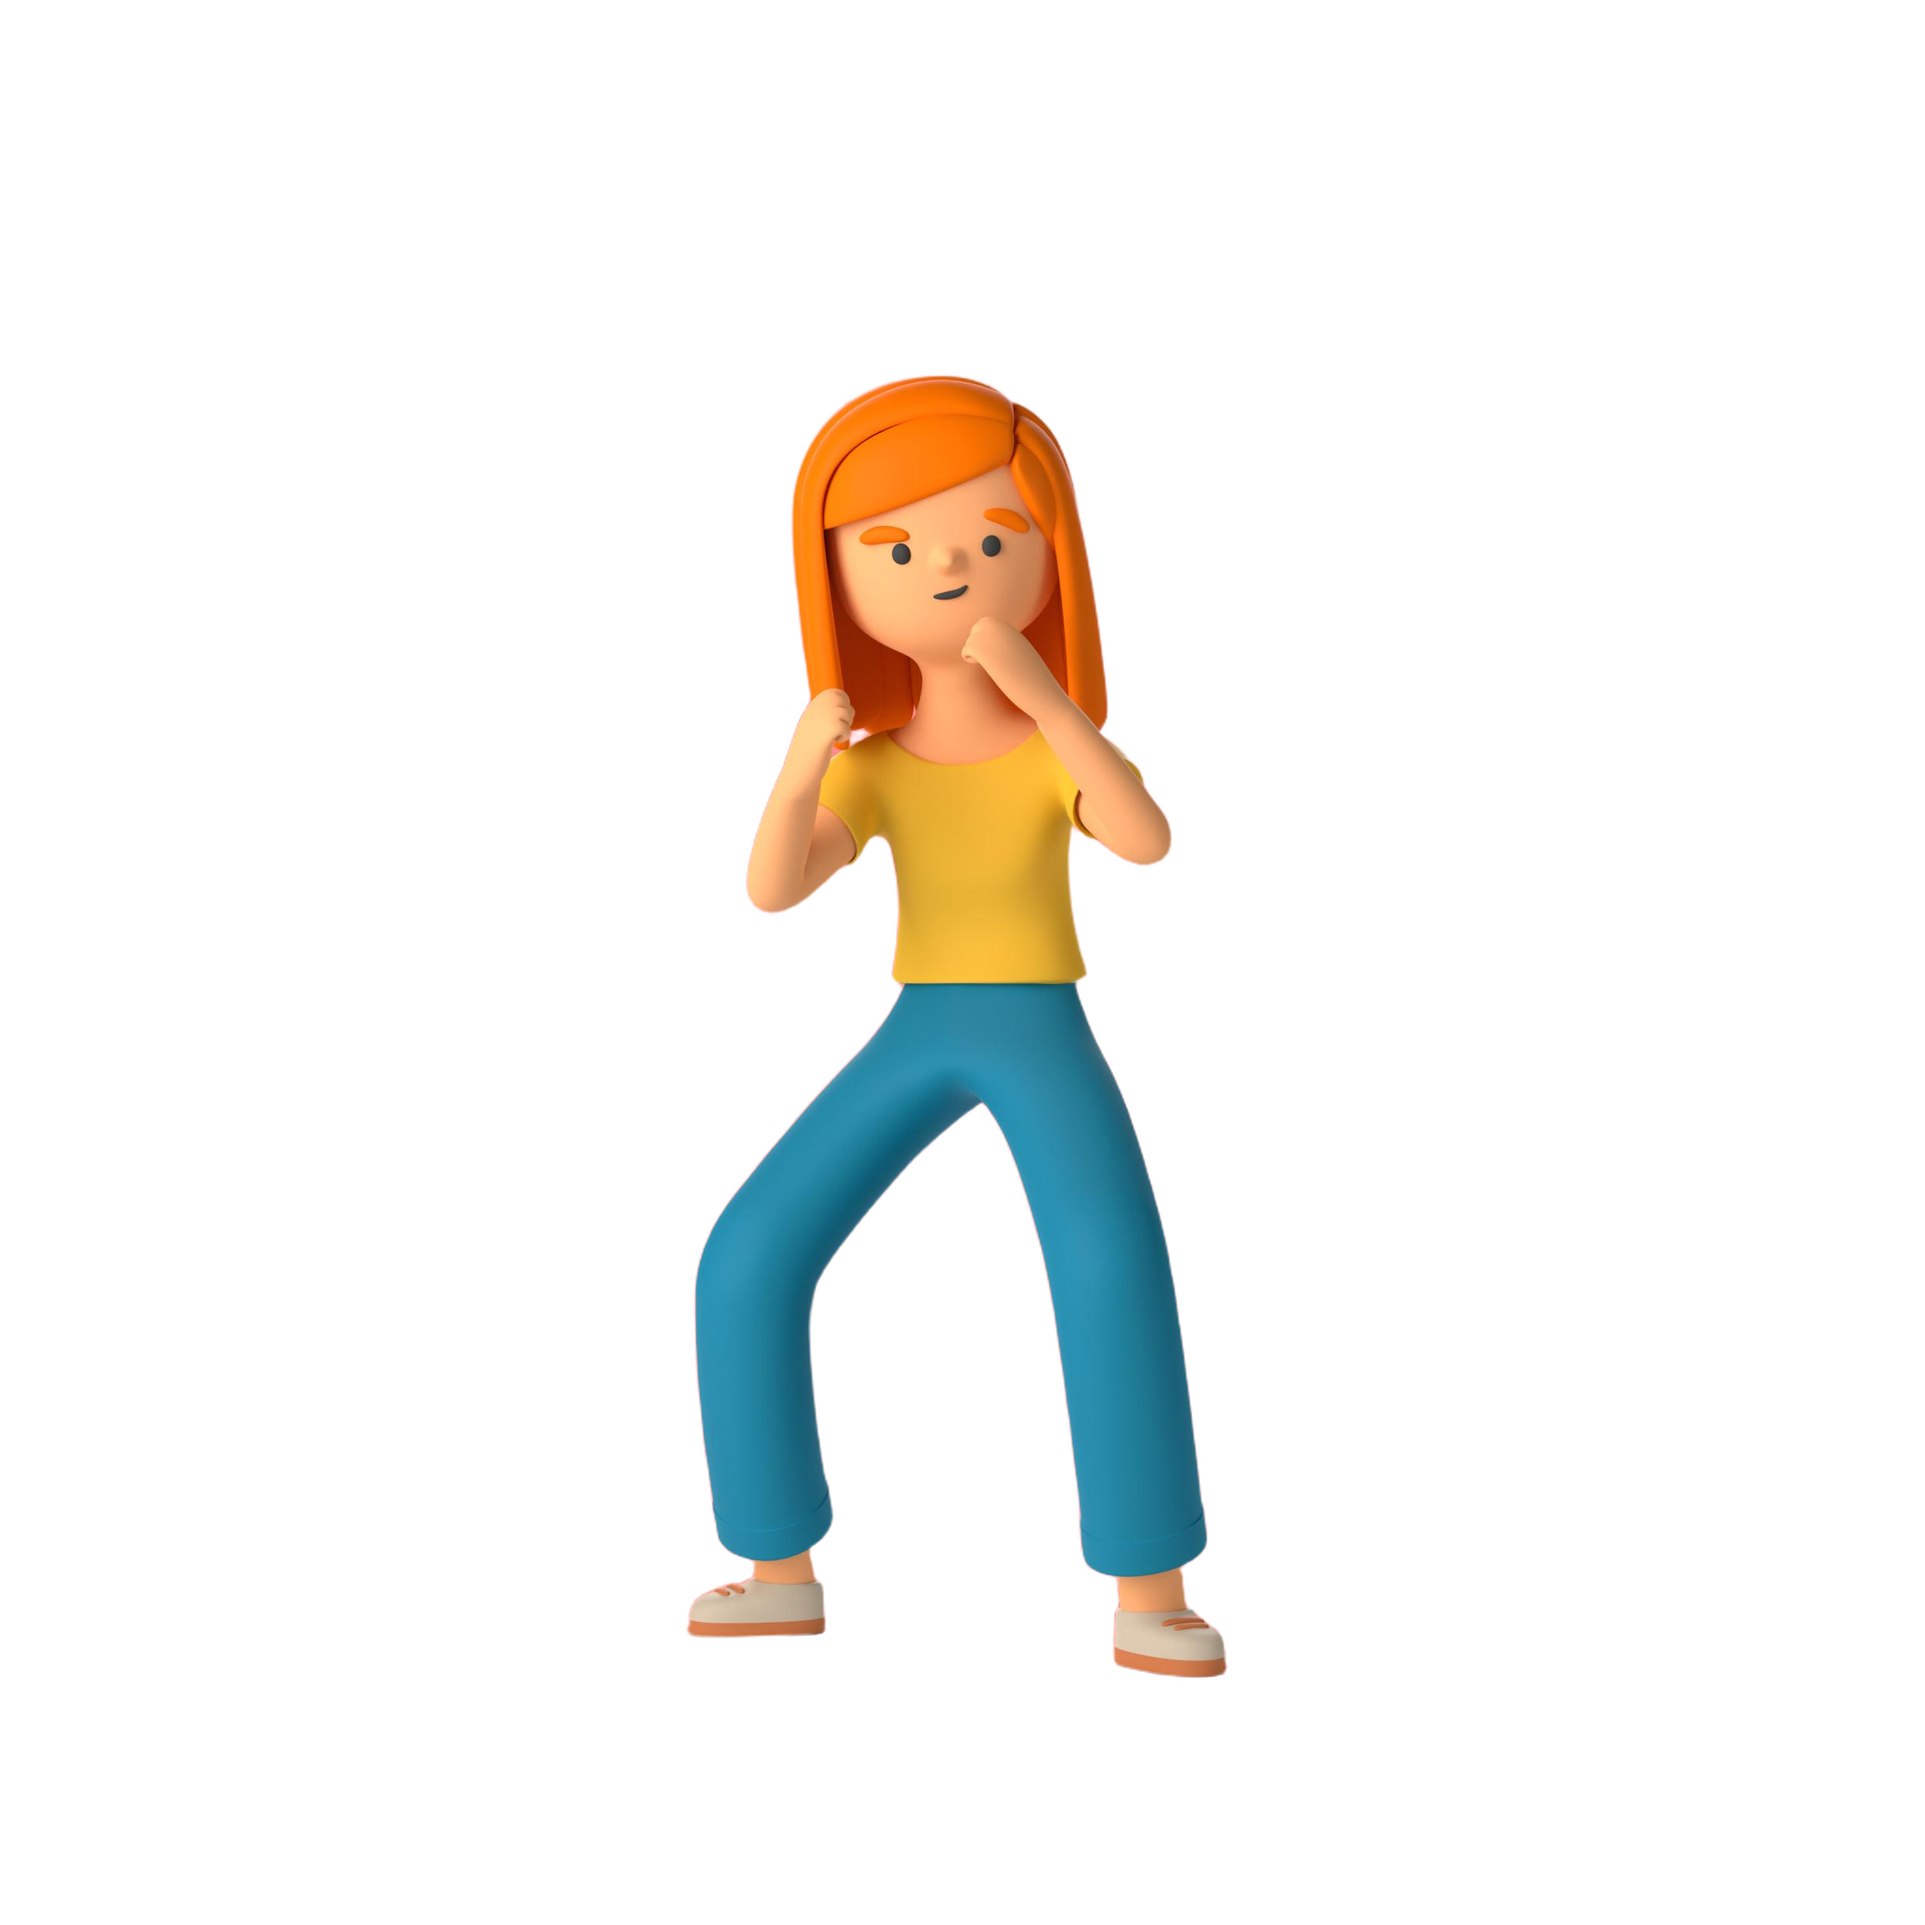
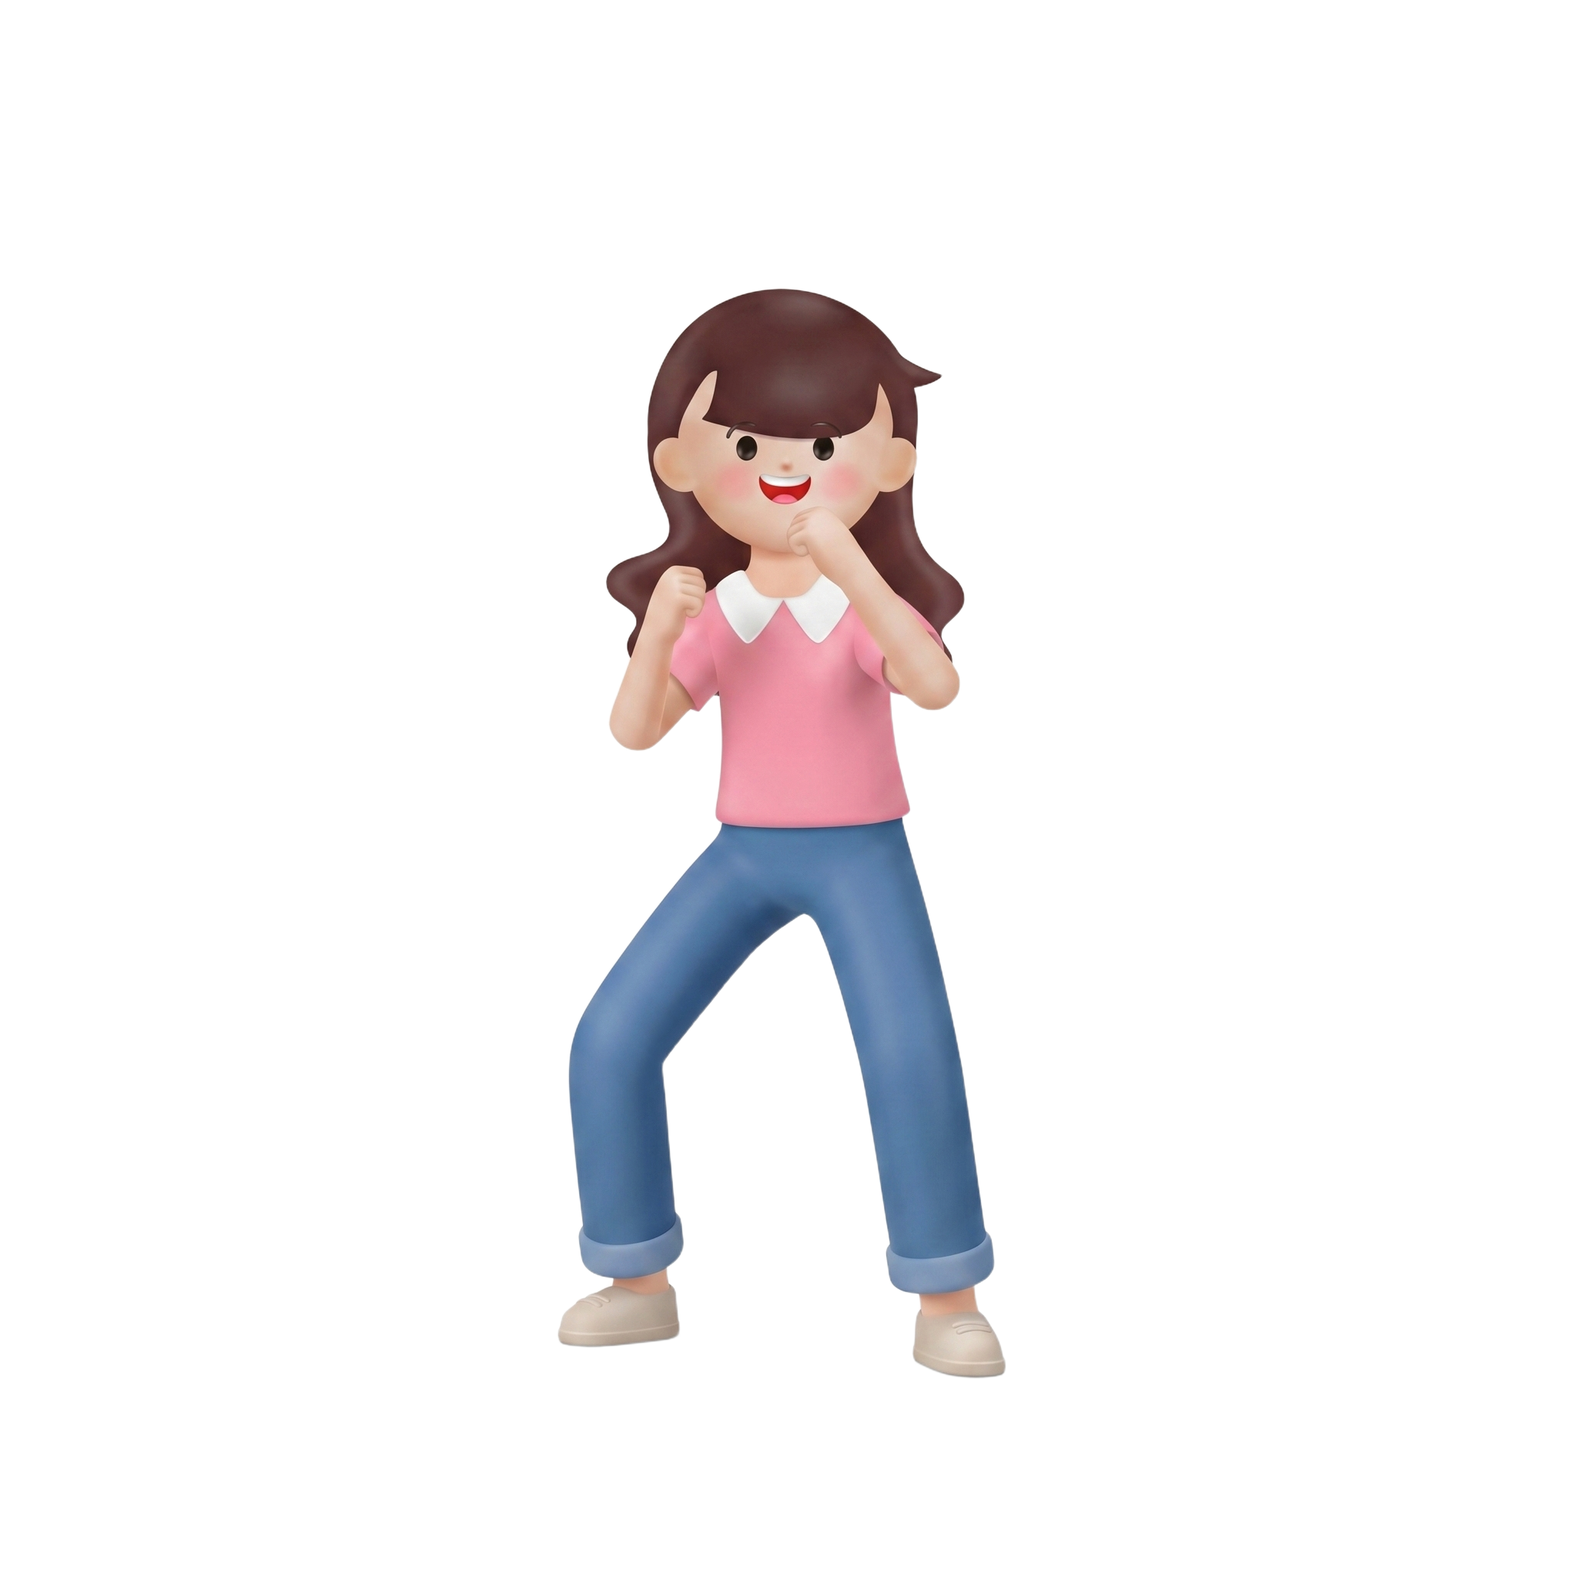
Add chi_lock illustration image to assets

Changed region(s): [[0.3438, 0.1562, 0.6562, 0.875]]

diff --git a/HR_api/Controllers/PolicyController.cs b/HR_api/Controllers/PolicyController.cs
@@ -196,6 +196,36 @@ public class PolicyController : ControllerBase
     }
 
     // ─────────────────────────────────────────────────────────────────────────
+    // POST /apiHR/Policy/delete?id=  — chỉ xóa khi IS_ACTIVE = 0
+    // ─────────────────────────────────────────────────────────────────────────
+    [HttpPost("delete")]
+    public async Task<IActionResult> Delete(int id)
+    {
+        try
+        {
+            const string checkSql = "SELECT IS_ACTIVE FROM HRMS.HR_COMPANY_POLICY WHERE ID = :ID";
+            var check = await _oracleService.ExecuteQueryAsync(checkSql,
+                r => Convert.ToInt32(r["IS_ACTIVE"]),
+                new OracleParameter("ID", id));
+
+            if (check.Count == 0)
+                return Ok(new { success = false, message = "Không tìm thấy quy định" });
+
+            if (check[0] != 0)
+                return Ok(new { success = false, message = "Chỉ được xóa quy định đang ẩn" });
+
+            const string deleteSql = "DELETE FROM HRMS.HR_COMPANY_POLICY WHERE ID = :ID";
+            await _oracleService.ExecuteNonQueryAsync(deleteSql, new OracleParameter("ID", id));
+
+            return Ok(new { success = true, message = "Đã xóa quy định" });
+        }
+        catch (Exception ex)
+        {
+            return Ok(new { success = false, message = ex.Message });
+        }
+    }
+
+    // ─────────────────────────────────────────────────────────────────────────
     private static CompanyPolicyModel Map(Oracle.ManagedDataAccess.Client.OracleDataReader r) => new()
     {
         ID             = Convert.ToInt32(r["ID"]),

diff --git a/HR_web/Helpers/NoDataHelper.cs b/HR_web/Helpers/NoDataHelper.cs
@@ -1,0 +1,32 @@
+using Microsoft.AspNetCore.Html;
+using Microsoft.AspNetCore.Mvc.Rendering;
+
+namespace HR_web.Helpers;
+
+public static class NoDataHelper
+{
+    private static readonly string[] NoDataImages = ["Chi_nodata.png", "A_nodata.png"];
+
+    public static IHtmlContent RenderNoData(this IHtmlHelper html, string? subtitle = null)
+    {
+        var urlHelper = new Microsoft.AspNetCore.Mvc.Routing.UrlHelper(html.ViewContext);
+        var img = NoDataImages[Random.Shared.Next(NoDataImages.Length)];
+        var imgSrc = urlHelper.Content($"~/assets/img/illustrations/{img}");
+
+        var subtitleHtml = subtitle is not null
+            ? $"<p class='text-muted mt-1 mb-0' style='font-size:0.95rem;'>{subtitle}</p>"
+            : string.Empty;
+
+        var html_content = $@"
+<div class='text-center py-5'>
+    <img src='{imgSrc}' alt='Không có dữ liệu' style='max-width:220px;margin-bottom:1rem;opacity:0.9;' />
+    <div class='d-flex align-items-center justify-content-center gap-2 mt-1'>
+        <span class='material-symbols-rounded text-secondary' style='font-size:1.5rem;'>event_busy</span>
+        <h5 class='fw-bold mb-0 text-secondary'>Không có dữ liệu</h5>
+    </div>
+    {subtitleHtml}
+</div>";
+
+        return new HtmlString(html_content);
+    }
+}

diff --git a/HR_web/Controllers/Policy/PolicyController.cs b/HR_web/Controllers/Policy/PolicyController.cs
@@ -91,4 +91,15 @@ public class PolicyController : BaseController
         TempData[success ? "SuccessMessage" : "ErrorMessage"] = message;
         return RedirectToAction("Manage");
     }
+
+    // ─────────────────────────────────────────────
+    // POST /Policy/Delete?id=
+    // ─────────────────────────────────────────────
+    [HttpPost]
+    public async Task<IActionResult> Delete(int id)
+    {
+        var (success, message) = await _service.DeleteAsync(id);
+        TempData[success ? "SuccessMessage" : "ErrorMessage"] = message;
+        return RedirectToAction("Manage");
+    }
 }

diff --git a/HR_web/API/Service/PolicyService.cs b/HR_web/API/Service/PolicyService.cs
@@ -57,4 +57,11 @@ public class PolicyService
         var parsed = await Parse<PolicyResponse<object>>(response);
         return (parsed?.success ?? false, parsed?.message ?? "Lỗi server");
     }
+
+    public async Task<(bool success, string message)> DeleteAsync(int id)
+    {
+        var response = await _api.PostAsync($"policy/delete?id={id}", new { });
+        var parsed = await Parse<PolicyResponse<object>>(response);
+        return (parsed?.success ?? false, parsed?.message ?? "Lỗi server");
+    }
 }
